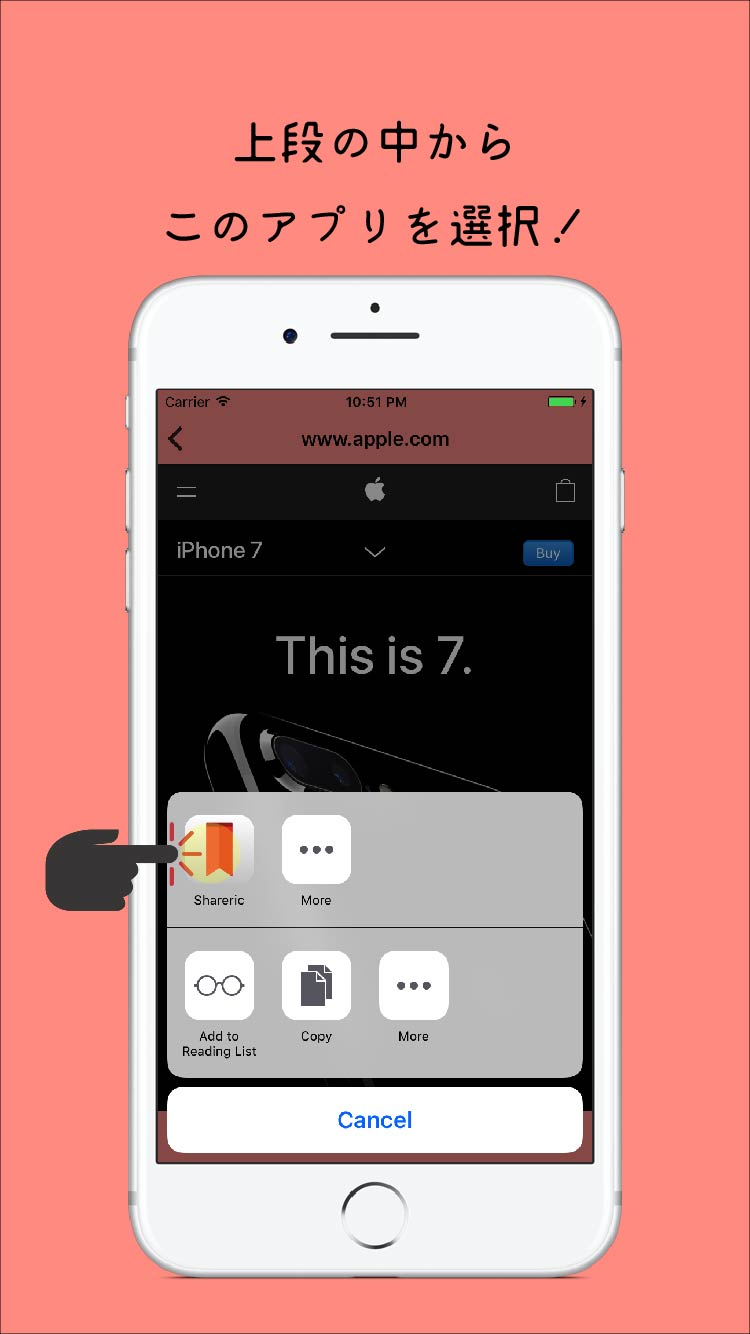
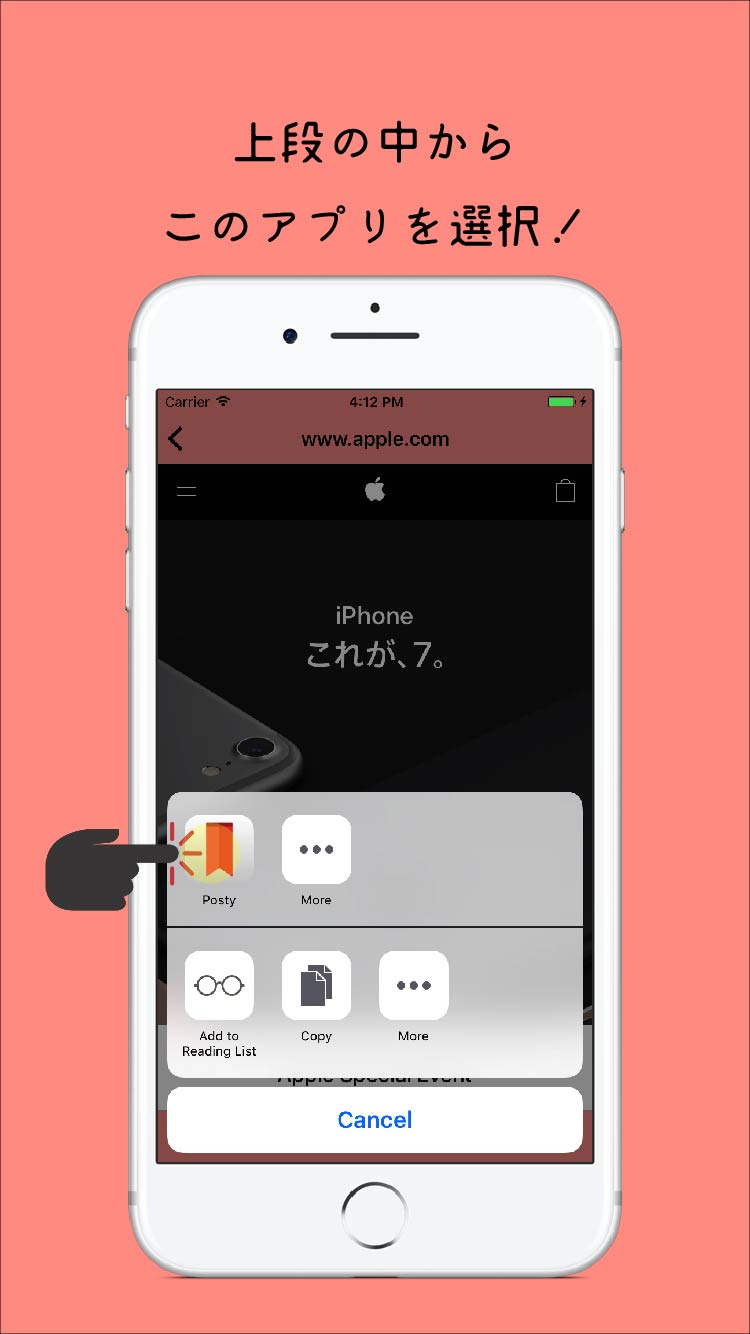
Tutorialの写真を変更

diff --git a/ShareArticle/PostFromUIActivity.swift b/ShareArticle/PostFromUIActivity.swift
@@ -23,7 +23,7 @@ class PostFromUIActivity: UIActivity {
     }
     
     override var activityTitle: String? {
-        return "Shareric"
+        return "Posty"
     }
     
     override var activityImage: UIImage? {
